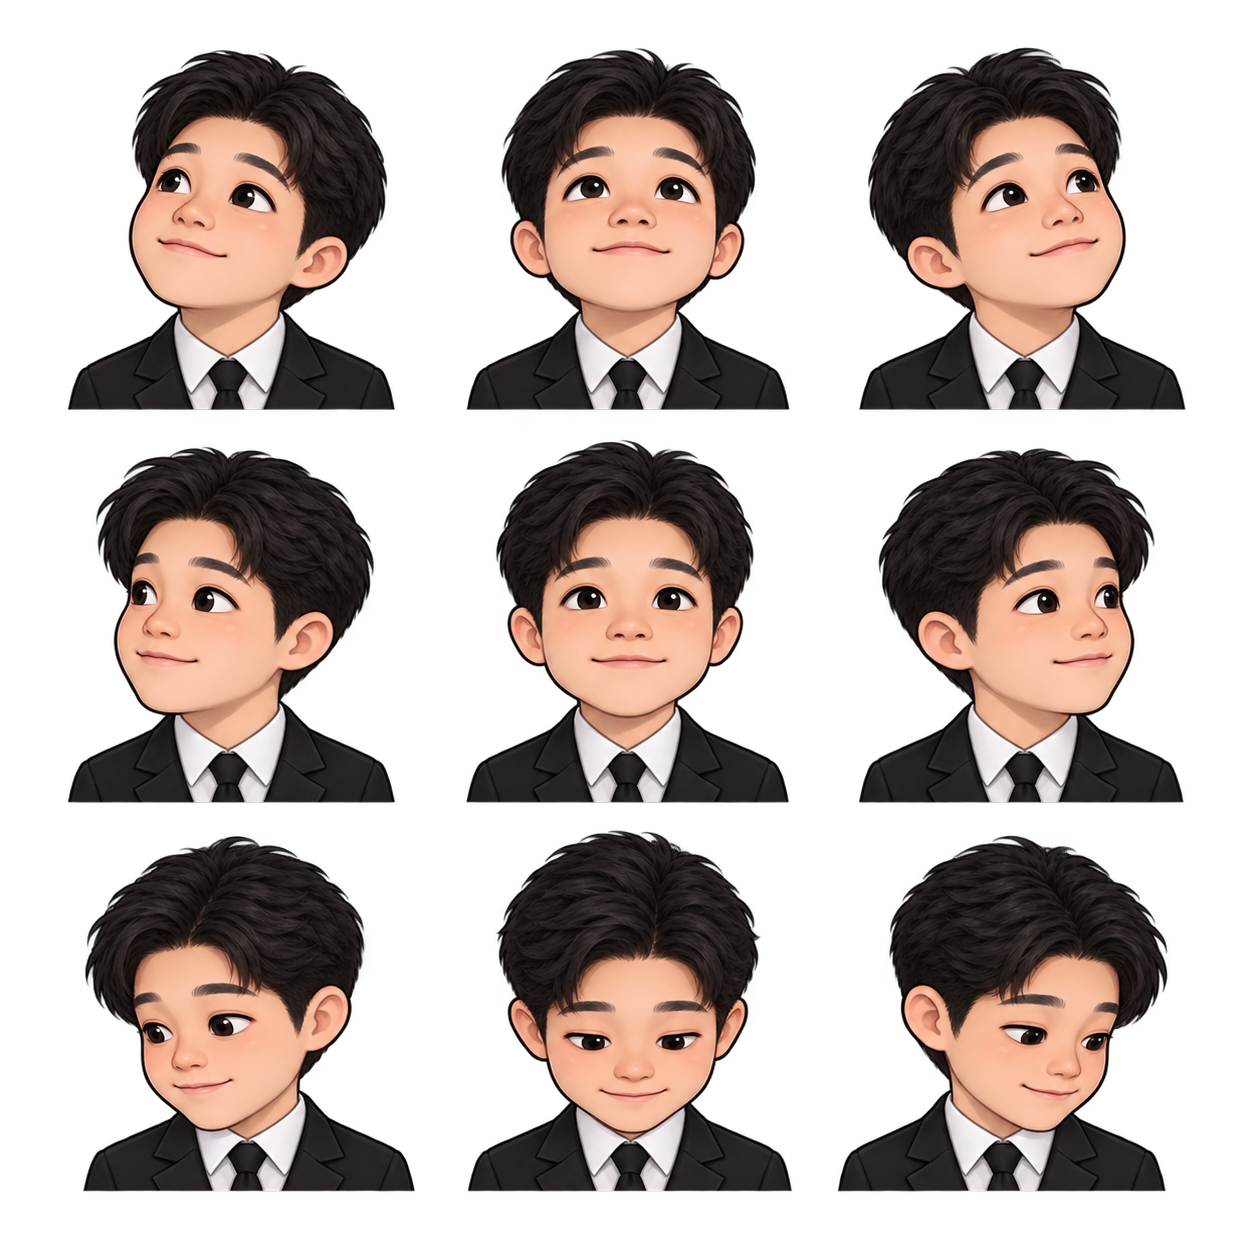
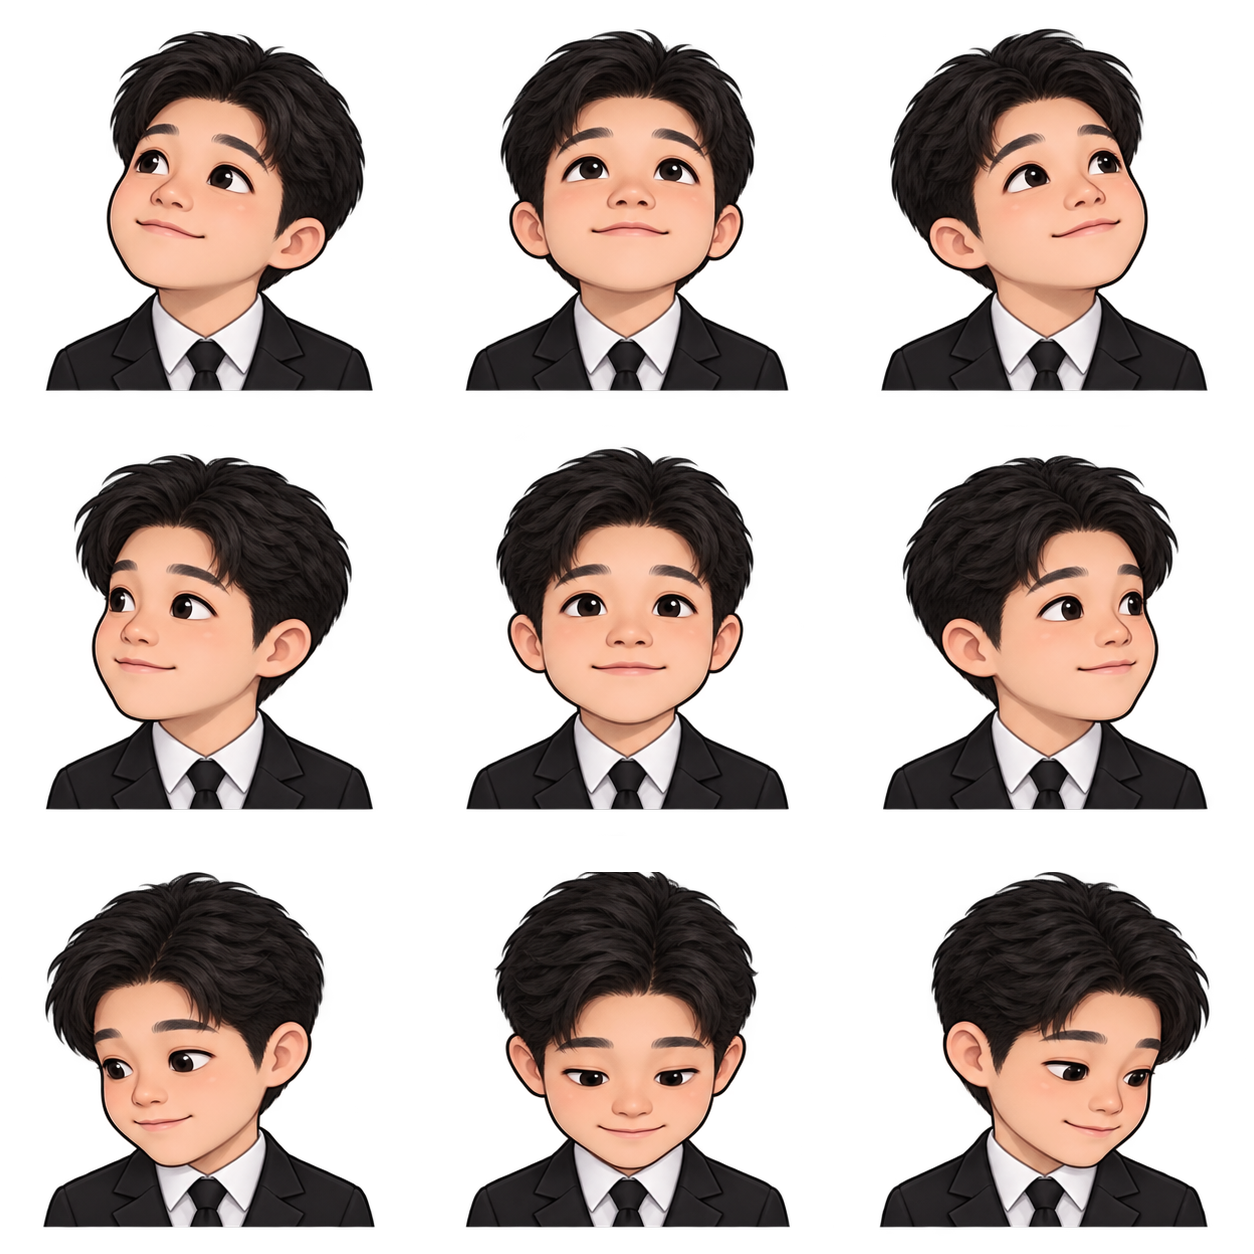
Align interactive about mascot

diff --git a/styles.css b/styles.css
@@ -138,16 +138,16 @@ img { display: block; max-width: 100%; }
 .mascot-reactions { opacity: 0; }
 .mascot-button.is-reacting .mascot-directions { opacity: 0; }
 .mascot-button.is-reacting .mascot-reactions { opacity: 1; }
-.mascot-button.is-booped .mascot-stage { animation: mascotBoop .42s linear; }
+.mascot-button.is-booped .mascot-stage { filter: drop-shadow(0 24px 70px rgba(0,0,0,.5)) drop-shadow(0 0 24px rgba(255,255,255,.35)); }
+.mascot-button.is-booped::after { content: ""; position: absolute; inset: 12%; border-radius: 50%; border: 1px solid rgba(255,255,255,.56); animation: mascotPulse .56s cubic-bezier(.22,1,.36,1) both; pointer-events: none; }
 .about-chip {
   position: absolute; left: 22%; bottom: 12%; z-index: 3; border-radius: 999px; padding: 10px 13px;
   background: rgba(255,255,255,.9); color: #000; font-size: 12px; font-weight: 600;
   box-shadow: 0 8px 30px rgba(0,0,0,.3); pointer-events: none;
 }
-@keyframes mascotBoop {
-  18% { transform: scale(1.10, .86); }
-  45% { transform: scale(.95, 1.08); }
-  72% { transform: scale(1.03, .97); }
+@keyframes mascotPulse {
+  from { opacity: .85; transform: scale(.86); }
+  to { opacity: 0; transform: scale(1.16); }
 }
 
 
@@ -303,9 +303,9 @@ img { display: block; max-width: 100%; }
 .empty-link { color: #c4c2c3; font-size: 14px; }
 .about-modal { width: min(1060px, calc(100vw - 28px)); }
 .about-modal-grid { display: grid; grid-template-columns: .72fr 1.28fr; min-height: 560px; }
-.about-photo { position: relative; display: flex; flex-direction: column; align-items: center; justify-content: center; gap: 14px; background: radial-gradient(circle at 52% 20%, rgba(255,255,255,.2), transparent 42%), linear-gradient(180deg, #1a1a1a, #000); overflow: hidden; padding: 34px; }
+.about-photo { position: relative; display: flex; flex-direction: column; align-items: center; justify-content: center; gap: 14px; background: radial-gradient(circle at 52% 20%, rgba(255,255,255,.2), transparent 42%), linear-gradient(180deg, #1a1a1a, #000); overflow: hidden; padding: 24px; }
 .about-photo::after { content: ""; position: absolute; inset: auto 0 0; height: 28%; background: linear-gradient(0deg, #0b0d0f, transparent); pointer-events: none; }
-.about-mascot { z-index: 1; width: min(78%, 270px); }
+.about-mascot { z-index: 1; width: min(100%, 310px); }
 .about-photo-caption { position: relative; z-index: 1; color: #c4c2c3; font-size: 12px; font-weight: 600; text-transform: uppercase; letter-spacing: .08em; }
 .about-modal .modal-body { display: flex; flex-direction: column; justify-content: center; padding: clamp(30px, 5vw, 58px); }
 .about-modal .modal-kicker { margin-bottom: 6px; }
@@ -393,8 +393,8 @@ img { display: block; max-width: 100%; }
   .modal-image { height: 210px; }
   .modal-data { grid-template-columns: 1fr; }
   .about-modal-grid { grid-template-columns: 1fr; }
-  .about-photo { min-height: 280px; padding: 26px; }
-  .about-mascot { width: min(68vw, 240px); }
+  .about-photo { min-height: 280px; padding: 22px; }
+  .about-mascot { width: min(78vw, 285px); }
   .about-modal .modal-body { padding: 26px; }
 }
 

diff --git a/main.js b/main.js
@@ -373,6 +373,7 @@ function initMascot(mascotButton) {
   const reactionLayer = mascotButton.querySelector('.mascot-reactions');
   const directions = ['up-left', 'up', 'up-right', 'left', 'center', 'right', 'down-left', 'down', 'down-right'];
   const reactions = ['blink', 'heart', 'sparkle', 'surprised', 'wink', 'bashful', 'sleepy', 'dizzy', 'delighted'];
+  const clockwise = ['right', 'down-right', 'down', 'down-left', 'left', 'up-left', 'up', 'up-right'];
   let boops = 0;
   let lastBoop = 0;
   let reactionTimer;
@@ -380,7 +381,20 @@ function initMascot(mascotButton) {
   setMascotLayer(directionLayer, mascotButton.dataset.directions, directions.indexOf('center'));
   setMascotLayer(reactionLayer, mascotButton.dataset.reactions, 0);
 
-  // ponytail: fixed center pose; regenerate aligned sheets if cursor-follow becomes worth it.
+  if (matchMedia('(hover: hover) and (pointer: fine)').matches) {
+    addEventListener('pointermove', (event) => {
+      const box = mascotButton.getBoundingClientRect();
+      if (!box.width || !box.height) return;
+      const dx = event.clientX - (box.left + box.width / 2);
+      const dy = event.clientY - (box.top + box.height / 2);
+      if (Math.hypot(dx, dy) < 70) {
+        setMascotLayer(directionLayer, mascotButton.dataset.directions, directions.indexOf('center'));
+        return;
+      }
+      const sector = (Math.round(Math.atan2(dy, dx) / (Math.PI / 4)) + 8) % 8;
+      setMascotLayer(directionLayer, mascotButton.dataset.directions, directions.indexOf(clockwise[sector]));
+    }, { passive: true });
+  }
 
   mascotButton.addEventListener('click', () => {
     clearTimeout(reactionTimer);
